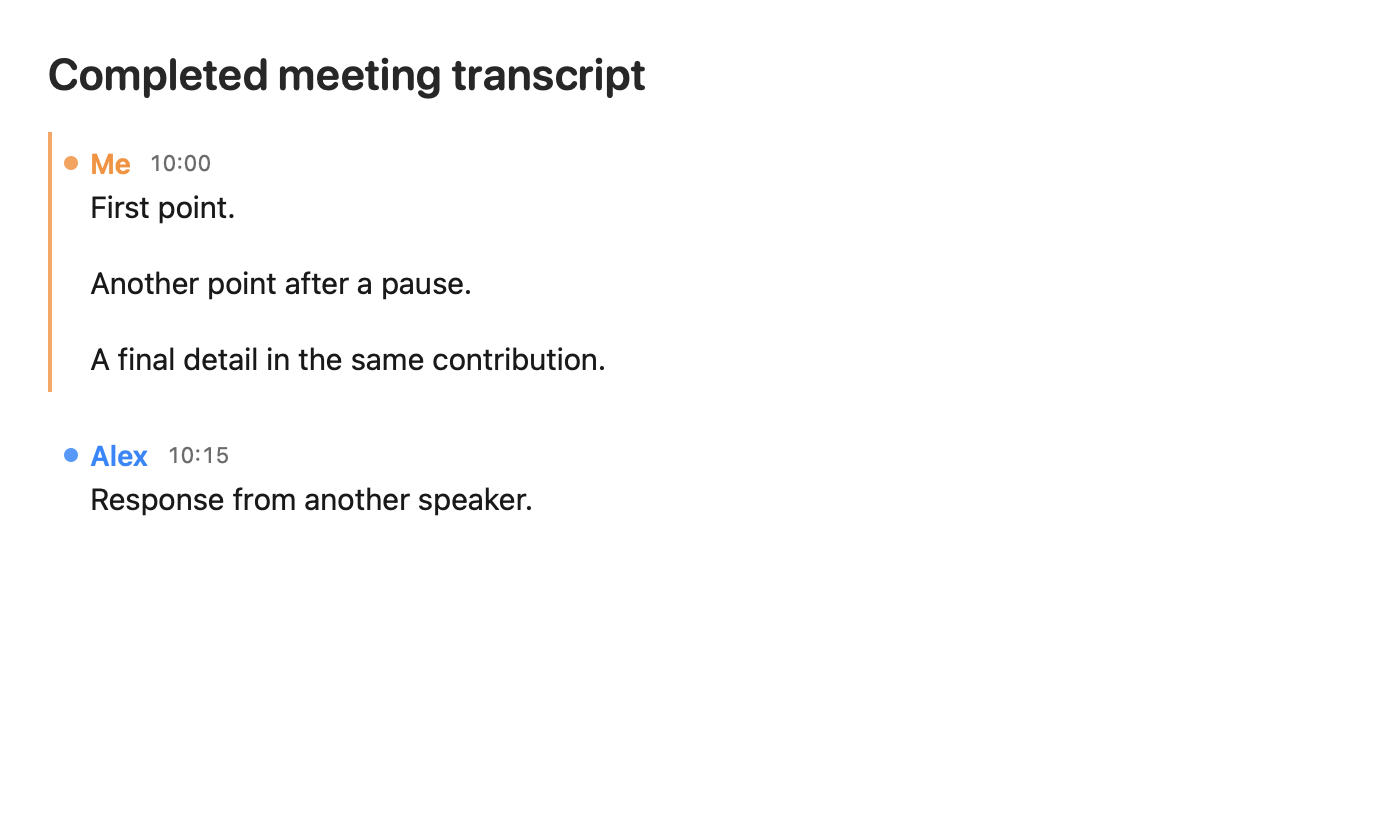
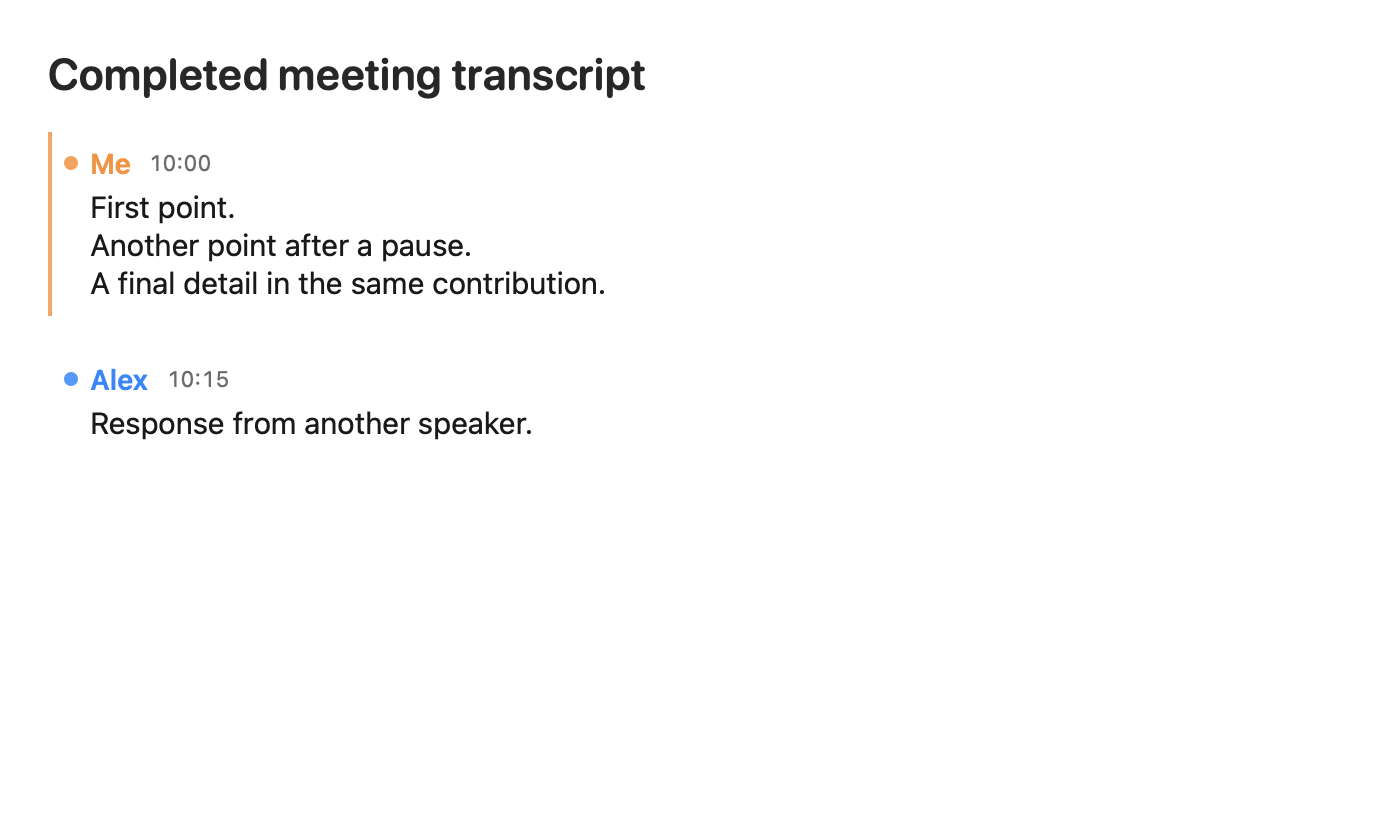
Use one line break between grouped points

diff --git a/Sources/MacParakeetCore/TextProcessing/MeetingTranscriptDisplayBuilder.swift b/Sources/MacParakeetCore/TextProcessing/MeetingTranscriptDisplayBuilder.swift
@@ -9,15 +9,16 @@ public enum MeetingTranscriptDisplayBuilder {
         var displayedTurns: [ReadingTurn] = []
 
         for turn in document.turns {
+            let displayedTurn = displayedTurn(from: turn)
             guard let previous = displayedTurns.last,
-                previous.source == turn.source,
-                previous.speakerId == turn.speakerId
+                previous.source == displayedTurn.source,
+                previous.speakerId == displayedTurn.speakerId
             else {
-                displayedTurns.append(turn)
+                displayedTurns.append(displayedTurn)
                 continue
             }
 
-            displayedTurns[displayedTurns.count - 1] = merge(previous, with: turn)
+            displayedTurns[displayedTurns.count - 1] = merge(previous, with: displayedTurn)
         }
 
         return MeetingTranscriptPresentationDocument(turns: displayedTurns)
@@ -34,11 +35,6 @@ public enum MeetingTranscriptDisplayBuilder {
             timeRange = nil
         }
 
-        let formattedText =
-            first.formattedText != nil || next.formattedText != nil
-            ? [first.text, next.text].filter { !$0.isEmpty }.joined(separator: "\n\n")
-            : nil
-
         return ReadingTurn(
             id: first.id,
             speakerId: first.speakerId,
@@ -47,8 +43,31 @@ public enum MeetingTranscriptDisplayBuilder {
             timeRange: timeRange,
             overlap: first.overlap,
             paragraphs: first.paragraphs + next.paragraphs,
-            formattedText: formattedText,
+            formattedText: [first.text, next.text].filter { !$0.isEmpty }.joined(separator: "\n"),
             wordReferences: first.wordReferences + next.wordReferences
         )
+    }
+
+    private static func displayedTurn(from turn: ReadingTurn) -> ReadingTurn {
+        ReadingTurn(
+            id: turn.id,
+            speakerId: turn.speakerId,
+            speakerLabel: turn.speakerLabel,
+            source: turn.source,
+            timeRange: turn.timeRange,
+            overlap: turn.overlap,
+            paragraphs: turn.paragraphs,
+            formattedText: compactParagraphSpacing(in: turn.text),
+            wordReferences: turn.wordReferences
+        )
+    }
+
+    /// SwiftUI treats each newline as a visible line advance. Canonical Reading
+    /// Turns use an empty line between paragraphs, so remove empty separator
+    /// lines before the completed-meeting UI renders the text.
+    private static func compactParagraphSpacing(in text: String) -> String {
+        text.components(separatedBy: .newlines)
+            .filter { !$0.trimmingCharacters(in: .whitespaces).isEmpty }
+            .joined(separator: "\n")
     }
 }

diff --git a/Tests/MacParakeetTests/TextProcessing/MeetingTranscriptDisplayBuilderTests.swift b/Tests/MacParakeetTests/TextProcessing/MeetingTranscriptDisplayBuilderTests.swift
@@ -37,7 +37,7 @@ final class MeetingTranscriptDisplayBuilderTests: XCTestCase {
         XCTAssertEqual(turn.paragraphs.map(\.text), ["First point.", "Another point.", "Final point."])
         XCTAssertEqual(
             turn.text,
-            "First point.\n\nAnother polished point.\n\nFinal point."
+            "First point.\nAnother polished point.\nFinal point."
         )
         XCTAssertEqual(turn.wordReferences, [0, 1, 2])
         XCTAssertEqual(formatted.turns.count, 3, "Display grouping must not change canonical turns")
@@ -95,7 +95,7 @@ final class MeetingTranscriptDisplayBuilderTests: XCTestCase {
         let turn = try XCTUnwrap(MeetingTranscriptDisplayBuilder.build(from: document).turns.only)
 
         XCTAssertNil(turn.timeRange)
-        XCTAssertEqual(turn.text, "Legacy first.\n\nLegacy second.")
+        XCTAssertEqual(turn.text, "Legacy first.\nLegacy second.")
         XCTAssertEqual(turn.paragraphs.count, 2)
     }
 

diff --git a/spec/04-ui-patterns.md b/spec/04-ui-patterns.md
@@ -593,7 +593,7 @@ Floating panel opened from the meeting recording pill. Shows live notes, live tr
 
 ### Completed-meeting Reading surface
 
-The default completed-meeting transcript uses the selected Compact byline layout. All transcript sizes use a plain stack to avoid the macOS 26 lazy-layout loop with selectable, variable-height text. Row count must not select the faulty lazy path; a future bounded layout needs to pass the same scrolling correctness and frame-latency gates before use. The stack renders one borderless block per displayed turn, never one view per word. A displayed turn collapses every consecutive Reading Turn with the same capture source and resolved speaker ID. A pause of any length, an internal paragraph or formatting boundary, or overlap metadata does not split that run. Only an intervening different speaker ends it; different speaker IDs remain separate even when their labels match. A restrained speaker dot, speaker name, and quiet start-time button form one compact byline above the run's full-width prose. The block retains exactly one blank line between paragraphs and all internal word references, but only its first Reading Turn identity and start time are UI navigation targets. No internal timestamp, playback-focus row, or accessibility turn is rendered. Readable wording uses conservative local cleanup. Validated AI formatting is combined in order without changing canonical formatting mappings. The start-time button supports pointer and keyboard activation, seeks to the displayed turn start, and starts playback. Playback focus uses only a left border; it adds no gradient or background fill. Transcript find searches displayed turns in reading order and scrolls to the containing block. VoiceOver encounters the speaker group, optional start time, and text in that order. Simultaneous contributions render as ordinary adjacent blocks in deterministic reading order without an overlap label, border, background, or wrapper spacing; overlap evidence remains unchanged outside the UI projection. Untimed fallback blocks omit the timestamp instead of implying unavailable precision. Each block has a **Copy Reading Turn** context action that copies its current speaker, one available start time, and readable paragraphs. Full meeting copy, readable exports, and rich AI context keep the canonical Reading Turn document and do not inherit UI grouping. The Text mode remains available for editing the plain transcript.
+The default completed-meeting transcript uses the selected Compact byline layout. All transcript sizes use a plain stack to avoid the macOS 26 lazy-layout loop with selectable, variable-height text. Row count must not select the faulty lazy path; a future bounded layout needs to pass the same scrolling correctness and frame-latency gates before use. The stack renders one borderless block per displayed turn, never one view per word. A displayed turn collapses every consecutive Reading Turn with the same capture source and resolved speaker ID. A pause of any length, an internal paragraph or formatting boundary, or overlap metadata does not split that run. Only an intervening different speaker ends it; different speaker IDs remain separate even when their labels match. A restrained speaker dot, speaker name, and quiet start-time button form one compact byline above the run's full-width prose. The block uses one line break between paragraphs, with no empty separator line, and retains all internal word references, but only its first Reading Turn identity and start time are UI navigation targets. No internal timestamp, playback-focus row, or accessibility turn is rendered. Readable wording uses conservative local cleanup. Validated AI formatting is combined in order without changing canonical formatting mappings. The start-time button supports pointer and keyboard activation, seeks to the displayed turn start, and starts playback. Playback focus uses only a left border; it adds no gradient or background fill. Transcript find searches displayed turns in reading order and scrolls to the containing block. VoiceOver encounters the speaker group, optional start time, and text in that order. Simultaneous contributions render as ordinary adjacent blocks in deterministic reading order without an overlap label, border, background, or wrapper spacing; overlap evidence remains unchanged outside the UI projection. Untimed fallback blocks omit the timestamp instead of implying unavailable precision. Each block has a **Copy Reading Turn** context action that copies its current speaker, one available start time, and readable paragraphs. Full meeting copy, readable exports, and rich AI context keep the canonical Reading Turn document and do not inherit UI grouping. The Text mode remains available for editing the plain transcript.
 
 The completed-meeting speaker overview uses compact inline entries in a wrapping flow. Each entry keeps one restrained identity dot, keyboard-accessible rename control, speaking time, and word count. Entries add another compact line only when the available width cannot contain them. The overview remains collapsible and its disclosure and rename controls keep explicit accessibility labels and keyboard focus behavior.
 

diff --git a/spec/contracts/meeting-reading-turn-consumers.md b/spec/contracts/meeting-reading-turn-consumers.md
@@ -60,7 +60,7 @@ request grouping, readable exports, or stored formatting mappings.
 - Canonical rendered turns have at most one start time. Word timestamps are not
   emitted in readable output.
 - Paragraphs remain separate inside their canonical or displayed turn. The UI
-  renders exactly one blank line between displayed paragraphs.
+  uses one line break between displayed paragraphs, with no empty separator line.
 - Simultaneous contributions retain one explicit overlap marker and deterministic
   contribution order.
 - Word-based citations resolve to the containing Reading Turn and return that

diff --git a/docs/visual-evidence/ticket-047/README.md b/docs/visual-evidence/ticket-047/README.md
@@ -7,7 +7,8 @@ The production `MeetingReadingTurnContentView` was rendered in light mode at
   **Me** bylines and timestamps.
 - `after.png` applies `MeetingTranscriptDisplayBuilder` and shows one **Me**
   byline, one `10:00` seek target, and all three paragraphs in order with one
-  blank line between them. The intervening **Alex** contribution remains separate.
+  line break and no empty separator line. The intervening **Alex** contribution
+  remains separate.
 
 Regenerate both images with:
 
